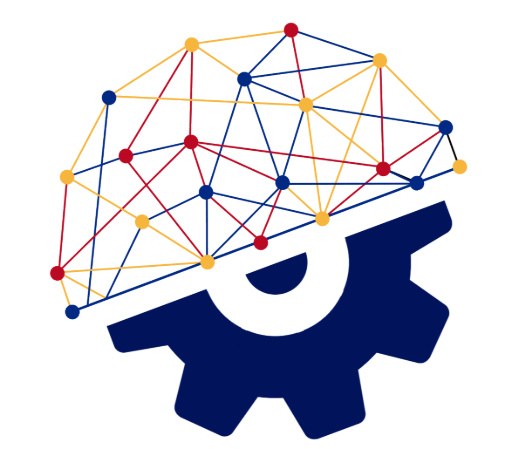
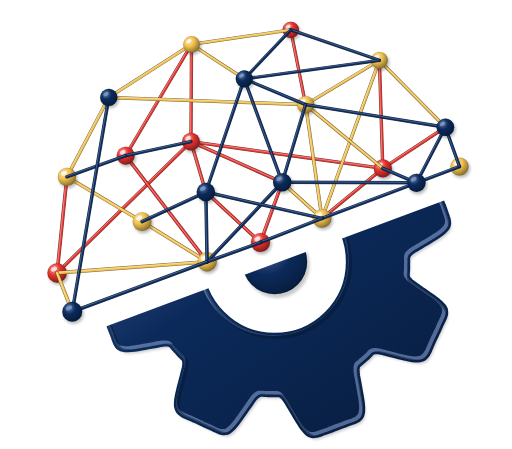
Isotipo con volumen: esferas, tubos y engranaje biselado en SVG
Las capas del isotipo pasan de PNG a SVG generados desde la geometría del
logo original (nodos, aristas por color y perfil del engranaje). Los nodos
son esferas con luz y sombra, las líneas tubos con brillo y el engranaje
lleva degradado metálico y bisel. Se conservan la red y el engranaje, la
animación de circuitos y el giro. Se regeneran la imagen social y el favicon.

Claude-Session: https://claude.ai/code/session_01XGmxFGbgubLTEDLJCjQUn3

diff --git a/nosotros.html b/nosotros.html
@@ -33,7 +33,7 @@
   <header class="masthead">
     <div class="shell masthead-inner">
       <a class="brand" href="index.html" aria-label="OITraF, portada">
-        <span class="iso" aria-hidden="true"><span class="iso-clip"><img class="iso-gear" src="img/marca/iso-engranaje-blanco.png" alt=""></span><img class="iso-circ iso-circ--rojo" src="img/marca/circuito-rojo.png" alt=""><img class="iso-circ iso-circ--amarillo" src="img/marca/circuito-amarillo.png" alt=""><img class="iso-circ iso-circ--azul" src="img/marca/circuito-azul-blanco.png" alt=""></span>
+        <span class="iso" aria-hidden="true"><span class="iso-clip"><img class="iso-gear" src="img/marca/iso-engranaje-blanco.svg" alt=""></span><img class="iso-circ iso-circ--rojo" src="img/marca/circuito-rojo.svg" alt=""><img class="iso-circ iso-circ--amarillo" src="img/marca/circuito-amarillo.svg" alt=""><img class="iso-circ iso-circ--azul" src="img/marca/circuito-azul-blanco.svg" alt=""></span>
         <span class="brand-word">OITraF</span>
         <span class="brand-sub">Observatorio Internacional del Trabajo del Futuro</span>
       </a>
@@ -55,7 +55,7 @@
   </header>
 
   <section class="hero" aria-labelledby="h-nosotros">
-    <span class="iso hero-iso" aria-hidden="true"><span class="iso-clip"><img class="iso-gear" src="img/marca/iso-engranaje-blanco.png" alt=""></span><img class="iso-circ iso-circ--rojo" src="img/marca/circuito-rojo.png" alt=""><img class="iso-circ iso-circ--amarillo" src="img/marca/circuito-amarillo.png" alt=""><img class="iso-circ iso-circ--azul" src="img/marca/circuito-azul-blanco.png" alt=""></span>
+    <span class="iso hero-iso" aria-hidden="true"><span class="iso-clip"><img class="iso-gear" src="img/marca/iso-engranaje-blanco.svg" alt=""></span><img class="iso-circ iso-circ--rojo" src="img/marca/circuito-rojo.svg" alt=""><img class="iso-circ iso-circ--amarillo" src="img/marca/circuito-amarillo.svg" alt=""><img class="iso-circ iso-circ--azul" src="img/marca/circuito-azul-blanco.svg" alt=""></span>
     <div class="shell hero-body" style="padding-block:2.4rem 2rem">
       <p class="kicker"><span class="dot" aria-hidden="true"></span>Sobre nosotros</p>
       <h1 id="h-nosotros" class="display" style="font-size:clamp(2.2rem,5vw,3.8rem)">Mirar el trabajo <em>que viene</em></h1>
@@ -193,7 +193,7 @@
   <footer class="footer">
     <div class="shell footer-inner">
       <div>
-        <div class="brand"><span class="iso" aria-hidden="true"><span class="iso-clip"><img class="iso-gear" src="img/marca/iso-engranaje-blanco.png" alt=""></span><img class="iso-circ iso-circ--rojo" src="img/marca/circuito-rojo.png" alt=""><img class="iso-circ iso-circ--amarillo" src="img/marca/circuito-amarillo.png" alt=""><img class="iso-circ iso-circ--azul" src="img/marca/circuito-azul-blanco.png" alt=""></span><span class="brand-word">OITraF</span></div>
+        <div class="brand"><span class="iso" aria-hidden="true"><span class="iso-clip"><img class="iso-gear" src="img/marca/iso-engranaje-blanco.svg" alt=""></span><img class="iso-circ iso-circ--rojo" src="img/marca/circuito-rojo.svg" alt=""><img class="iso-circ iso-circ--amarillo" src="img/marca/circuito-amarillo.svg" alt=""><img class="iso-circ iso-circ--azul" src="img/marca/circuito-azul-blanco.svg" alt=""></span><span class="brand-word">OITraF</span></div>
         <p>Observatorio Internacional del Trabajo del Futuro. Investigación social y noticias sobre el trabajo y el empleo en Argentina, América Latina y el mundo.</p>
       </div>
       <div>

diff --git a/index.html b/index.html
@@ -33,7 +33,7 @@
   <header class="masthead">
     <div class="shell masthead-inner">
       <a class="brand" href="index.html" aria-label="OITraF, portada">
-        <span class="iso" aria-hidden="true"><span class="iso-clip"><img class="iso-gear" src="img/marca/iso-engranaje-blanco.png" alt=""></span><img class="iso-circ iso-circ--rojo" src="img/marca/circuito-rojo.png" alt=""><img class="iso-circ iso-circ--amarillo" src="img/marca/circuito-amarillo.png" alt=""><img class="iso-circ iso-circ--azul" src="img/marca/circuito-azul-blanco.png" alt=""></span>
+        <span class="iso" aria-hidden="true"><span class="iso-clip"><img class="iso-gear" src="img/marca/iso-engranaje-blanco.svg" alt=""></span><img class="iso-circ iso-circ--rojo" src="img/marca/circuito-rojo.svg" alt=""><img class="iso-circ iso-circ--amarillo" src="img/marca/circuito-amarillo.svg" alt=""><img class="iso-circ iso-circ--azul" src="img/marca/circuito-azul-blanco.svg" alt=""></span>
         <span class="brand-word">OITraF</span>
         <span class="brand-sub">Observatorio Internacional del Trabajo del Futuro</span>
       </a>
@@ -57,7 +57,7 @@
   </header>
 
   <section class="hero" aria-labelledby="hero-title">
-    <span class="iso hero-iso" aria-hidden="true"><span class="iso-clip"><img class="iso-gear" src="img/marca/iso-engranaje-blanco.png" alt=""></span><img class="iso-circ iso-circ--rojo" src="img/marca/circuito-rojo.png" alt=""><img class="iso-circ iso-circ--amarillo" src="img/marca/circuito-amarillo.png" alt=""><img class="iso-circ iso-circ--azul" src="img/marca/circuito-azul-blanco.png" alt=""></span>
+    <span class="iso hero-iso" aria-hidden="true"><span class="iso-clip"><img class="iso-gear" src="img/marca/iso-engranaje-blanco.svg" alt=""></span><img class="iso-circ iso-circ--rojo" src="img/marca/circuito-rojo.svg" alt=""><img class="iso-circ iso-circ--amarillo" src="img/marca/circuito-amarillo.svg" alt=""><img class="iso-circ iso-circ--azul" src="img/marca/circuito-azul-blanco.svg" alt=""></span>
     <div class="shell hero-body">
       <p class="kicker"><span class="dot" aria-hidden="true"></span>Observatorio · datos oficiales · actualización diaria</p>
       <h1 id="hero-title" class="display hero-title">El mundo del trabajo,<br>en datos <em>verificables</em></h1>
@@ -303,7 +303,7 @@
   <footer class="footer">
     <div class="shell footer-inner">
       <div>
-        <div class="brand"><span class="iso" aria-hidden="true"><span class="iso-clip"><img class="iso-gear" src="img/marca/iso-engranaje-blanco.png" alt=""></span><img class="iso-circ iso-circ--rojo" src="img/marca/circuito-rojo.png" alt=""><img class="iso-circ iso-circ--amarillo" src="img/marca/circuito-amarillo.png" alt=""><img class="iso-circ iso-circ--azul" src="img/marca/circuito-azul-blanco.png" alt=""></span><span class="brand-word">OITraF</span></div>
+        <div class="brand"><span class="iso" aria-hidden="true"><span class="iso-clip"><img class="iso-gear" src="img/marca/iso-engranaje-blanco.svg" alt=""></span><img class="iso-circ iso-circ--rojo" src="img/marca/circuito-rojo.svg" alt=""><img class="iso-circ iso-circ--amarillo" src="img/marca/circuito-amarillo.svg" alt=""><img class="iso-circ iso-circ--azul" src="img/marca/circuito-azul-blanco.svg" alt=""></span><span class="brand-word">OITraF</span></div>
         <p>Observatorio Internacional del Trabajo del Futuro. Investigación social y noticias sobre el trabajo y el empleo en Argentina, América Latina y el mundo.</p>
       </div>
       <div>

diff --git a/protestas.html b/protestas.html
@@ -42,7 +42,7 @@
 
     <div class="shell topbar-inner">
       <div class="brand">
-        <a href="index.html" aria-label="OITraF, portal" class="brand-mark"><span class="iso" aria-hidden="true"><span class="iso-clip"><img class="iso-gear" src="img/marca/iso-engranaje-blanco.png" alt=""></span><img class="iso-circ iso-circ--rojo" src="img/marca/circuito-rojo.png" alt=""><img class="iso-circ iso-circ--amarillo" src="img/marca/circuito-amarillo.png" alt=""><img class="iso-circ iso-circ--azul" src="img/marca/circuito-azul-blanco.png" alt=""></span></a>
+        <a href="index.html" aria-label="OITraF, portal" class="brand-mark"><span class="iso" aria-hidden="true"><span class="iso-clip"><img class="iso-gear" src="img/marca/iso-engranaje-blanco.svg" alt=""></span><img class="iso-circ iso-circ--rojo" src="img/marca/circuito-rojo.svg" alt=""><img class="iso-circ iso-circ--amarillo" src="img/marca/circuito-amarillo.svg" alt=""><img class="iso-circ iso-circ--azul" src="img/marca/circuito-azul-blanco.svg" alt=""></span></a>
         <h1>Observatorio de Protestas Sociales</h1>
       </div>
       <a class="back-link" href="index.html">← OITraF · portal</a>
@@ -163,7 +163,7 @@
   <footer class="footer">
     <div class="shell footer-inner">
       <div class="footer-brand">
-        <span class="iso" aria-hidden="true"><span class="iso-clip"><img class="iso-gear" src="img/marca/iso-engranaje-blanco.png" alt=""></span><img class="iso-circ iso-circ--rojo" src="img/marca/circuito-rojo.png" alt=""><img class="iso-circ iso-circ--amarillo" src="img/marca/circuito-amarillo.png" alt=""><img class="iso-circ iso-circ--azul" src="img/marca/circuito-azul-blanco.png" alt=""></span><span class="footer-word">OITraF</span>
+        <span class="iso" aria-hidden="true"><span class="iso-clip"><img class="iso-gear" src="img/marca/iso-engranaje-blanco.svg" alt=""></span><img class="iso-circ iso-circ--rojo" src="img/marca/circuito-rojo.svg" alt=""><img class="iso-circ iso-circ--amarillo" src="img/marca/circuito-amarillo.svg" alt=""><img class="iso-circ iso-circ--azul" src="img/marca/circuito-azul-blanco.svg" alt=""></span><span class="footer-word">OITraF</span>
         <span>Observatorio de Protestas Sociales · un programa de <a href="index.html">OITraF</a> · <a href="nosotros.html">Sobre nosotros</a></span>
       </div>
       <p><span id="updated"></span>Los eventos provienen del proyecto <a href="https://www.gdeltproject.org/" target="_blank" rel="noopener">GDELT</a>

diff --git a/indicadores.html b/indicadores.html
@@ -33,7 +33,7 @@
   <header class="masthead">
     <div class="shell masthead-inner">
       <a class="brand" href="index.html" aria-label="OITraF, portada">
-        <span class="iso" aria-hidden="true"><span class="iso-clip"><img class="iso-gear" src="img/marca/iso-engranaje-blanco.png" alt=""></span><img class="iso-circ iso-circ--rojo" src="img/marca/circuito-rojo.png" alt=""><img class="iso-circ iso-circ--amarillo" src="img/marca/circuito-amarillo.png" alt=""><img class="iso-circ iso-circ--azul" src="img/marca/circuito-azul-blanco.png" alt=""></span>
+        <span class="iso" aria-hidden="true"><span class="iso-clip"><img class="iso-gear" src="img/marca/iso-engranaje-blanco.svg" alt=""></span><img class="iso-circ iso-circ--rojo" src="img/marca/circuito-rojo.svg" alt=""><img class="iso-circ iso-circ--amarillo" src="img/marca/circuito-amarillo.svg" alt=""><img class="iso-circ iso-circ--azul" src="img/marca/circuito-azul-blanco.svg" alt=""></span>
         <span class="brand-word">OITraF</span>
         <span class="brand-sub">Observatorio Internacional del Trabajo del Futuro</span>
       </a>
@@ -93,7 +93,7 @@
   <footer class="footer">
     <div class="shell footer-inner">
       <div>
-        <div class="brand"><span class="iso" aria-hidden="true"><span class="iso-clip"><img class="iso-gear" src="img/marca/iso-engranaje-blanco.png" alt=""></span><img class="iso-circ iso-circ--rojo" src="img/marca/circuito-rojo.png" alt=""><img class="iso-circ iso-circ--amarillo" src="img/marca/circuito-amarillo.png" alt=""><img class="iso-circ iso-circ--azul" src="img/marca/circuito-azul-blanco.png" alt=""></span><span class="brand-word">OITraF</span></div>
+        <div class="brand"><span class="iso" aria-hidden="true"><span class="iso-clip"><img class="iso-gear" src="img/marca/iso-engranaje-blanco.svg" alt=""></span><img class="iso-circ iso-circ--rojo" src="img/marca/circuito-rojo.svg" alt=""><img class="iso-circ iso-circ--amarillo" src="img/marca/circuito-amarillo.svg" alt=""><img class="iso-circ iso-circ--azul" src="img/marca/circuito-azul-blanco.svg" alt=""></span><span class="brand-word">OITraF</span></div>
         <p>Observatorio Internacional del Trabajo del Futuro. Todas las series provienen de fuentes oficiales y se actualizan automáticamente; las elaboraciones propias se declaran como tales.</p>
       </div>
       <div>

diff --git a/css/style.css b/css/style.css
@@ -267,15 +267,15 @@ a:hover { color: var(--accent-strong); }
    recta del corte original. Medidas derivadas de img/marca/isotipo.json. */
 .iso { position: relative; display: inline-block; aspect-ratio: 1175 / 1030; height: 48px; flex: none; }
 .iso img { position: absolute; display: block; max-width: none; }
-.iso-circ { inset: 0; width: 100%; height: 100%; opacity: 0.5; animation: iso-circuito 3.6s ease-in-out infinite; }
+.iso-circ { inset: 0; width: 100%; height: 100%; opacity: 0.6; animation: iso-circuito 3.6s ease-in-out infinite; }
 .iso-circ--rojo { color: #e5322d; animation-delay: 0s; }
 .iso-circ--amarillo { color: #f2c14e; animation-delay: -1.2s; }
 .iso-circ--azul { color: #ffffff; animation-delay: -2.4s; }
 /* cada circuito se enciende un tercio del ciclo: rojo, amarillo y azul, por turnos */
 @keyframes iso-circuito {
-  0%, 100% { opacity: 0.5; filter: none; }
+  0%, 100% { opacity: 0.6; filter: none; }
   10%, 30% { opacity: 1; filter: drop-shadow(0 0 2px currentColor); }
-  42% { opacity: 0.5; filter: none; }
+  42% { opacity: 0.6; filter: none; }
 }
 .iso-clip { position: absolute; inset: 0; clip-path: polygon(0% 81.52%, 100% 39%, 100% 100%, 0% 100%); }
 .iso-gear { left: 17.76%; top: 17.43%; width: 71.83%; height: 81.94%; transform-origin: 50% 50%; animation: iso-girar 30s linear infinite; will-change: transform; }

diff --git a/css/oitraf.css b/css/oitraf.css
@@ -229,15 +229,15 @@ button { font: inherit; }
    recta del corte original. Medidas derivadas de img/marca/isotipo.json. */
 .iso { position: relative; display: inline-block; aspect-ratio: 1175 / 1030; height: 48px; flex: none; }
 .iso img { position: absolute; display: block; max-width: none; }
-.iso-circ { inset: 0; width: 100%; height: 100%; opacity: 0.5; animation: iso-circuito 3.6s ease-in-out infinite; }
+.iso-circ { inset: 0; width: 100%; height: 100%; opacity: 0.6; animation: iso-circuito 3.6s ease-in-out infinite; }
 .iso-circ--rojo { color: #e5322d; animation-delay: 0s; }
 .iso-circ--amarillo { color: #f2c14e; animation-delay: -1.2s; }
 .iso-circ--azul { color: #ffffff; animation-delay: -2.4s; }
 /* cada circuito se enciende un tercio del ciclo: rojo, amarillo y azul, por turnos */
 @keyframes iso-circuito {
-  0%, 100% { opacity: 0.5; filter: none; }
+  0%, 100% { opacity: 0.6; filter: none; }
   10%, 30% { opacity: 1; filter: drop-shadow(0 0 2px currentColor); }
-  42% { opacity: 0.5; filter: none; }
+  42% { opacity: 0.6; filter: none; }
 }
 .iso-clip { position: absolute; inset: 0; clip-path: polygon(0% 81.52%, 100% 39%, 100% 100%, 0% 100%); }
 .iso-gear { left: 17.76%; top: 17.43%; width: 71.83%; height: 81.94%; transform-origin: 50% 50%; animation: iso-girar 30s linear infinite; will-change: transform; }

diff --git a/README.md b/README.md
@@ -145,6 +145,10 @@ Ambos formularios exigen consentimiento para el uso de los datos, llevan un camp
 - **Rastreadores**: `robots.txt` permite la indexación y desautoriza a los rastreadores de entrenamiento de IA; `sitemap.xml` con las tres páginas.
 - Recomendado en GitHub: activar **Enforce HTTPS** en Pages y proteger la rama `main` (Settings → Branches) para que solo el equipo y los robots puedan publicar.
 
+## Isotipo 3D
+
+Las capas animadas del isotipo (`img/marca/circuito-*.svg` e `img/marca/iso-engranaje*.svg`) se generan con `node scripts/gen3d.mjs` a partir de `scripts/grafo.json`, que describe los nodos, las aristas por color y el perfil del engranaje extraídos del logo original con `node scripts/grafo.mjs`. Las esferas y los tubos llevan sombreado para dar volumen; la geometría es la del logo oficial.
+
 ## Licencias de los datos
 
 Banco Mundial, OIT, datos.gob.ar y Eurostat publican bajo CC BY 4.0; BLS es dominio público; FMI y OCDE permiten el uso con atribución; GDELT es de uso libre con atribución. Cada placa y cada serie enlazan al organismo que publica el dato.
